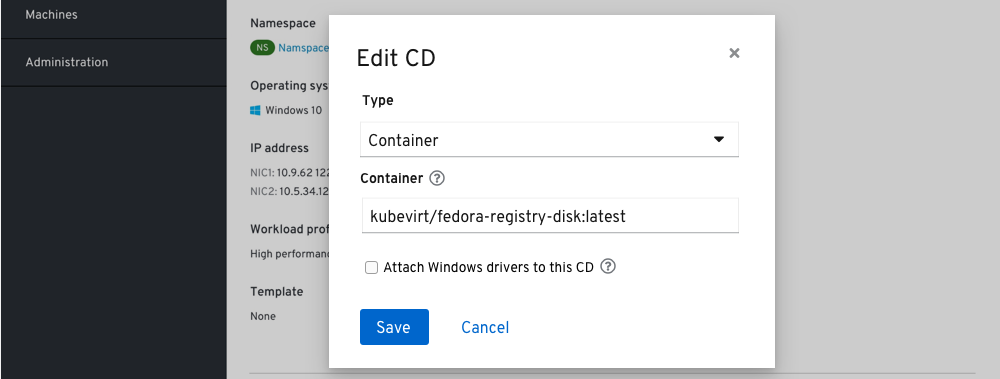
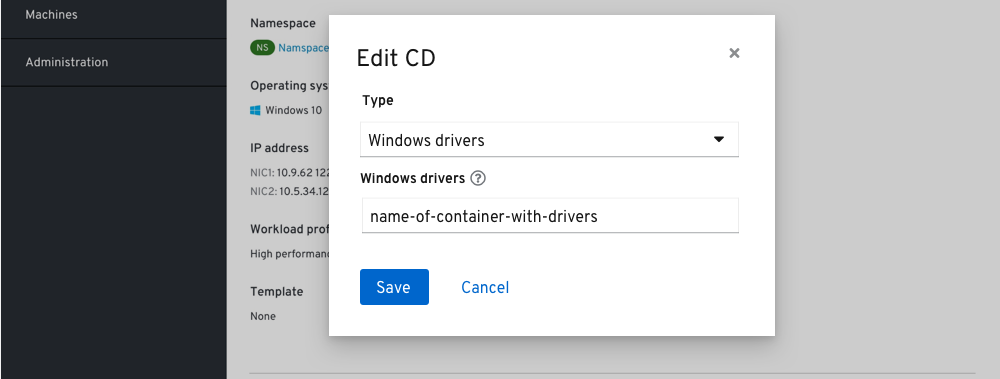
windows updates

diff --git a/web-console/knikubevirt/vm-details/vm-details.md b/web-console/knikubevirt/vm-details/vm-details.md
@@ -33,7 +33,7 @@ A text field is provided to paste in the URL to the available CD.
 With each selection a tooltip is provided to describe each type.
 
 ### Windows drivers
-In the case where a Windows operating system has been chosen in the general step a checkbox is provided to confirm this cd will have the windows drivers attached to it.
+In the case where a Windows operating system has been chosen in the general step a `Windows drivers` option will be available.
 ![VM-details edit cd windows drivers](img/edit-container-windows.png)
 
 ![VM-details cd details](img/cd-field.png)
